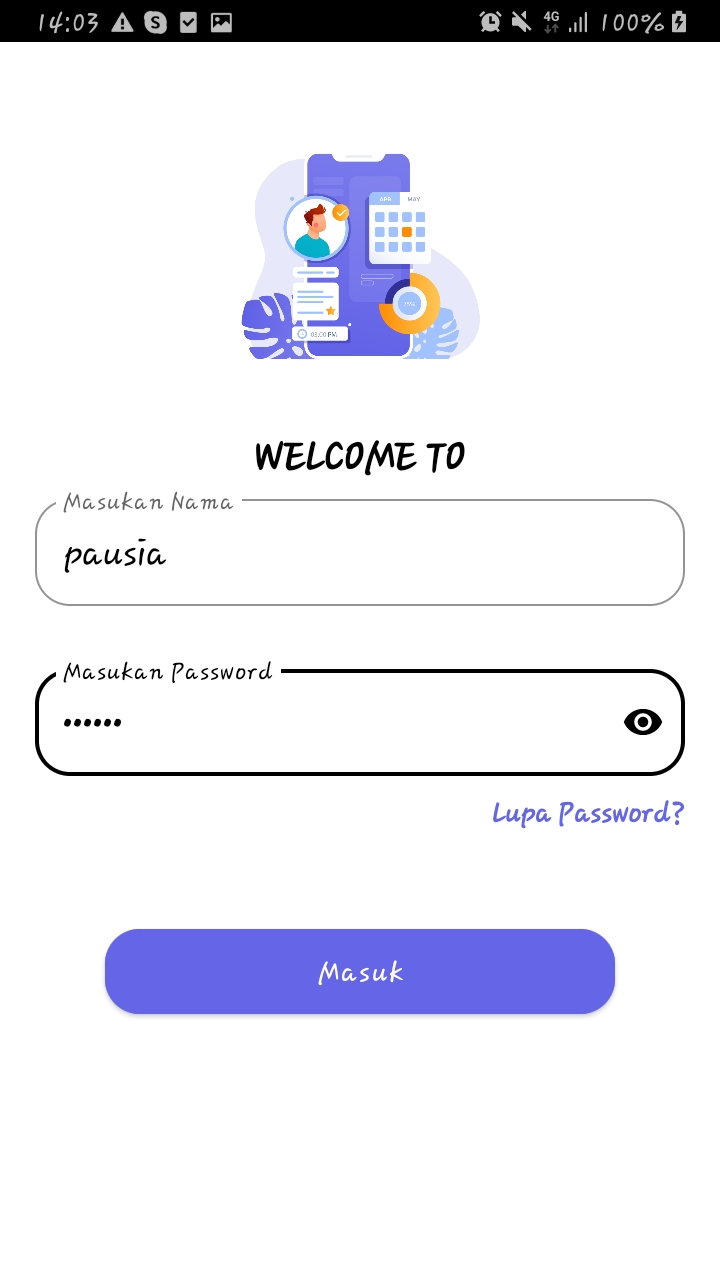
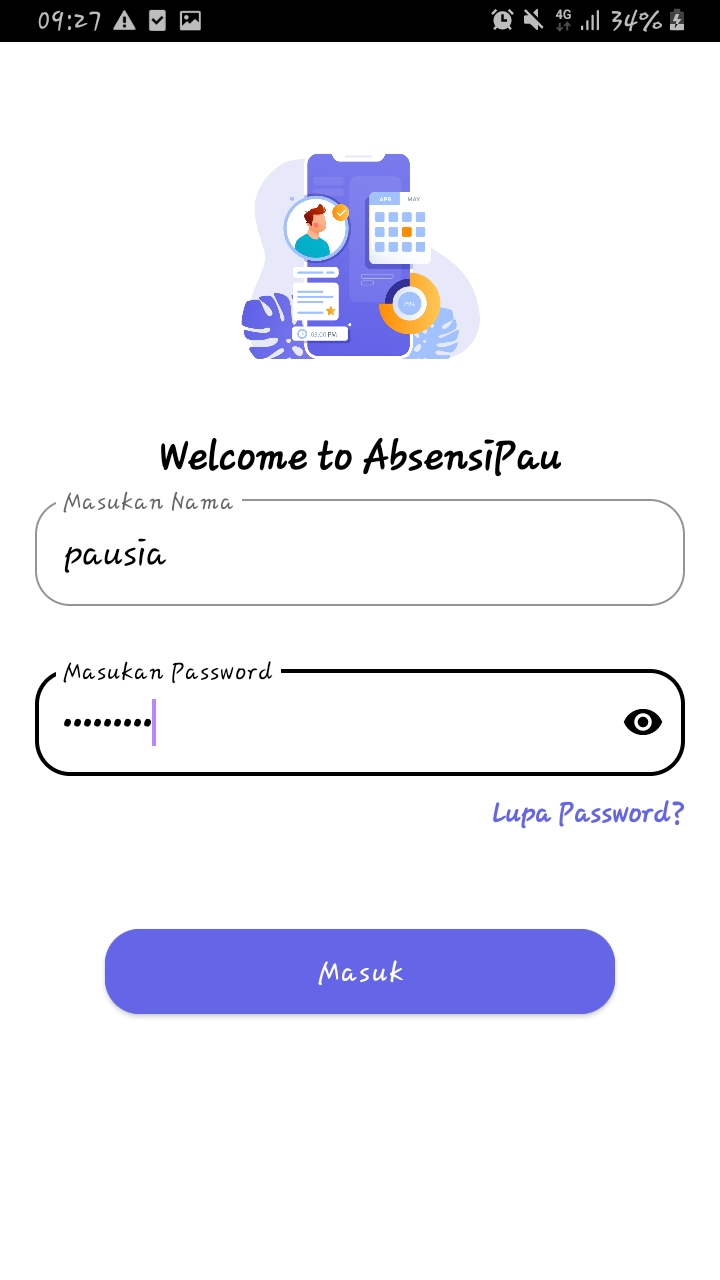
tambah tampilan screnshoot

diff --git a/README.md b/README.md
@@ -1,7 +1,7 @@
 # Absensi-Apps
 Hai, saya Nurfauziah Makmur bisa dipanggil pausia berikut tentang panduan penggunaan sourch code aplikasi.
 
-Aplikasi Absensi dengan Android Studio
+Aplikasi AbsensiPau dengan Android Studio
 Dimana ada 6 fiturnya yaitu:
 1. Login
 2. Absen Masuk
